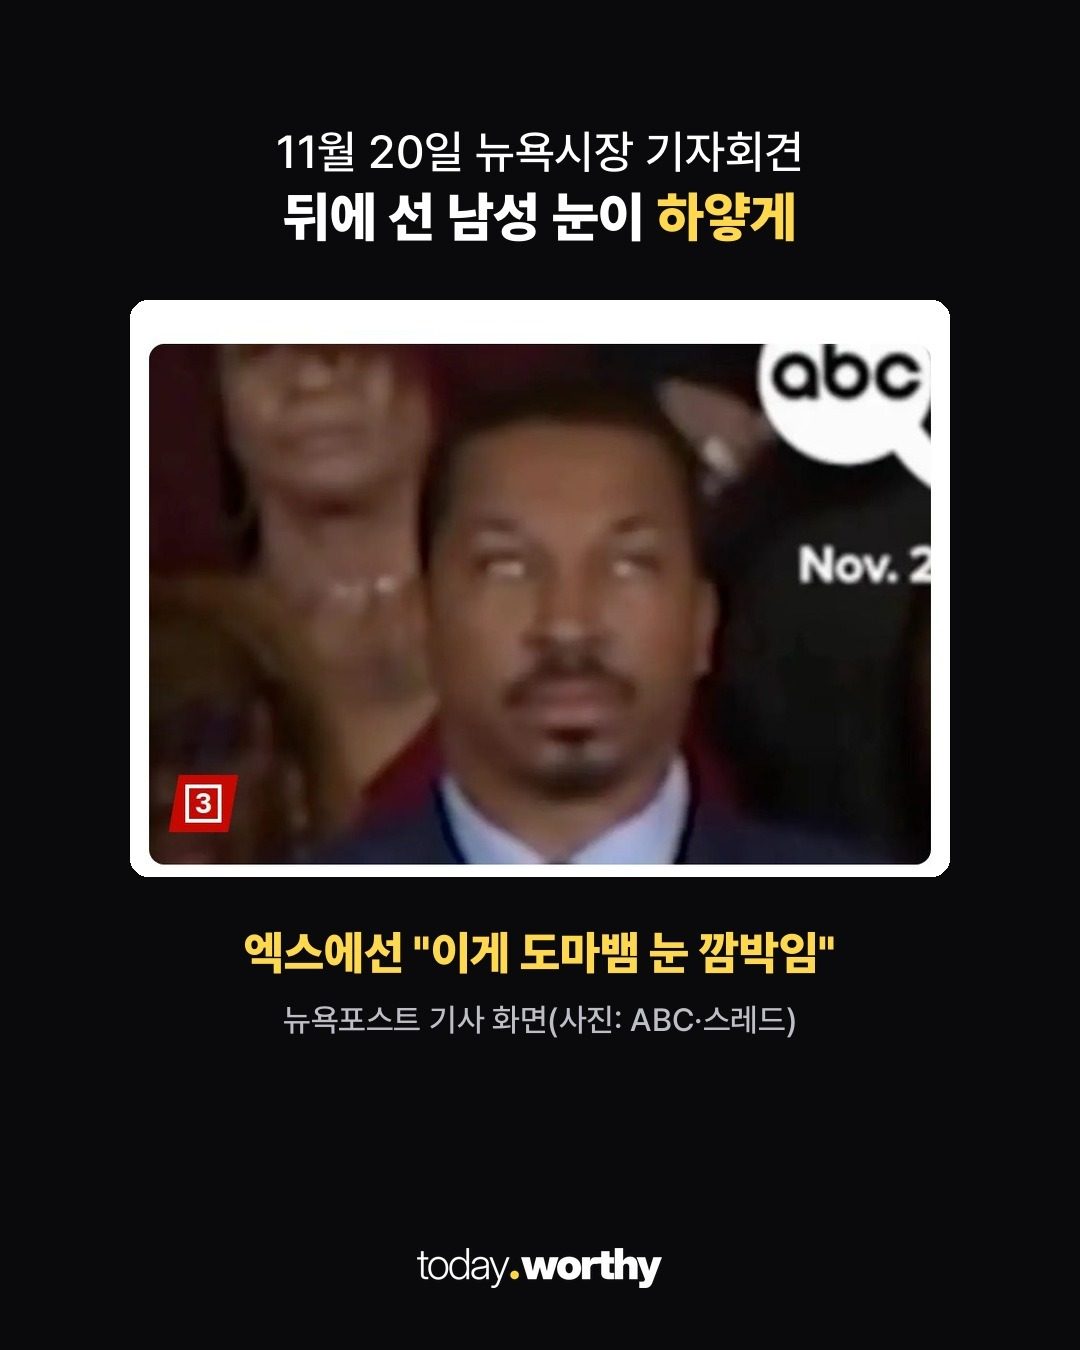
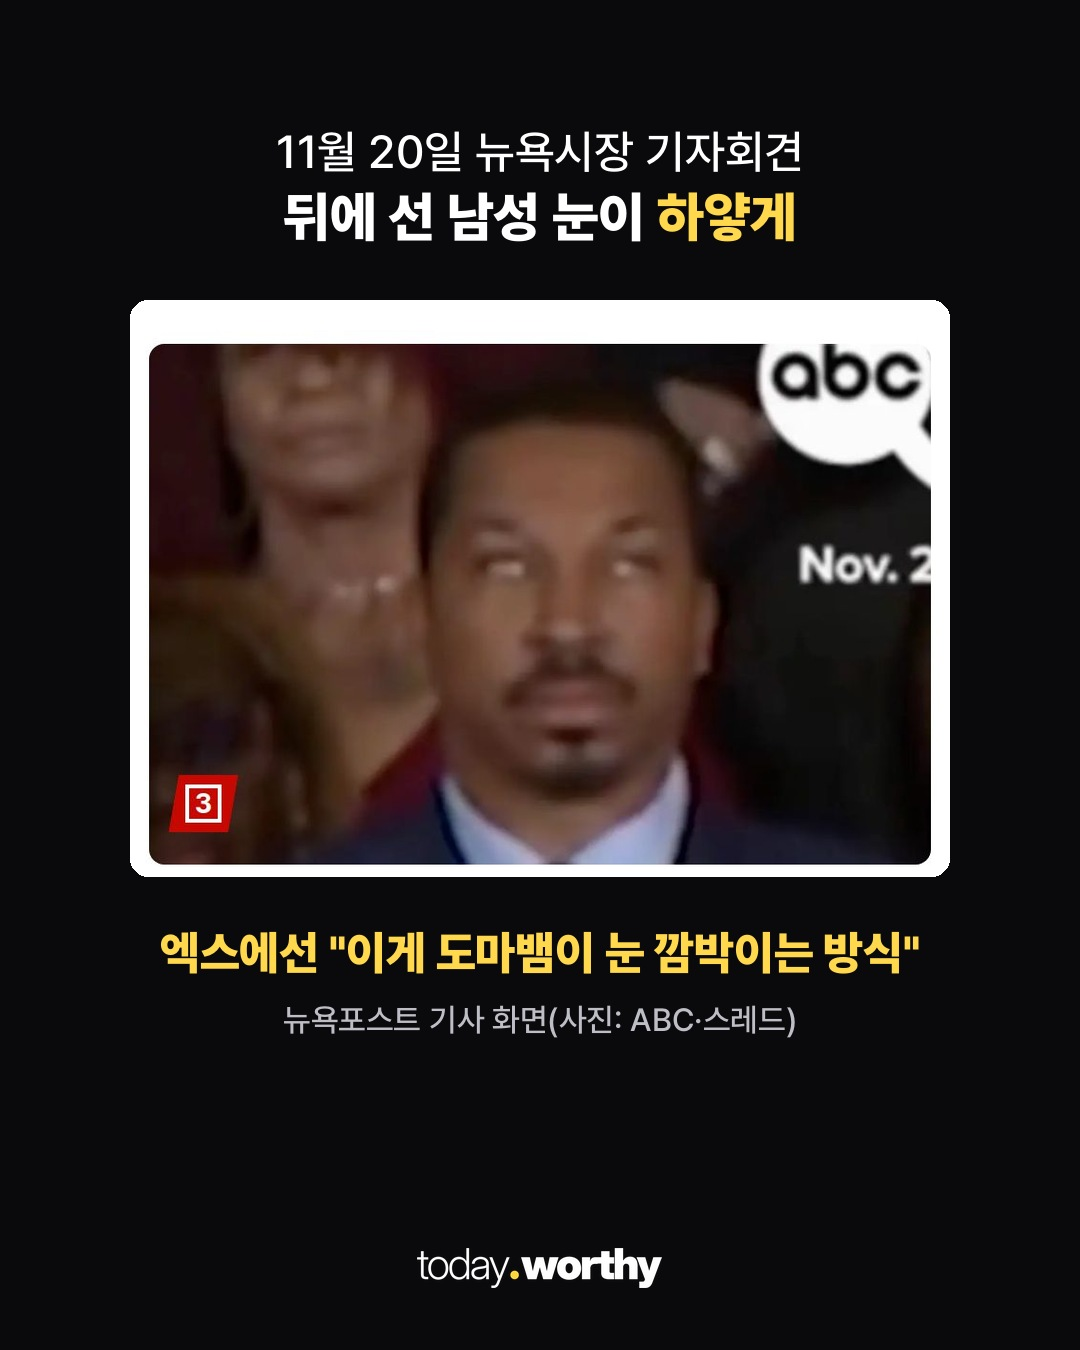
nypost-rep: 2장 인용 원문대로

Changed region(s): [[0.1528, 0.6844, 0.8556, 0.7467]]

diff --git a/media/20261123-nypost-rep/build_cards.py b/media/20261123-nypost-rep/build_cards.py
@@ -70,7 +70,7 @@ nyp = op("nyp.jpg")
 def shot(box, w=940):
     im = nyp.crop(box); return im.resize((w, round(im.height * w / im.width)), Image.LANCZOS)
 frame(("11월 20일 뉴욕시장 기자회견", "뒤에 선 남성 눈이 '하얗게'"), shot((0, 5600, 860, 6205), 820),
-      "엑스에선 \"이게 '도마뱀' 눈 깜박임\"", "뉴욕포스트 기사 화면(사진: ABC·스레드)").save(O / "c02.jpg", quality=93)
+      "엑스에선 \"이게 '도마뱀'이 눈 깜박이는 방식\"", "뉴욕포스트 기사 화면(사진: ABC·스레드)").save(O / "c02.jpg", quality=93)
 frame(("뉴욕포스트 취재에", "당사자는 '뉴욕주 하원의원'"), shot((0, 0, 860, 760), 760),
       "할렘 지역구 조던 라이트(32) 의원", "뉴욕포스트(11.22) 기사 화면").save(O / "c03.jpg", quality=93)
 frame(("본인 해명", "\"분명히 저는 '인간'입니다\""), shot((0, 7205, 860, 7745), 940),
